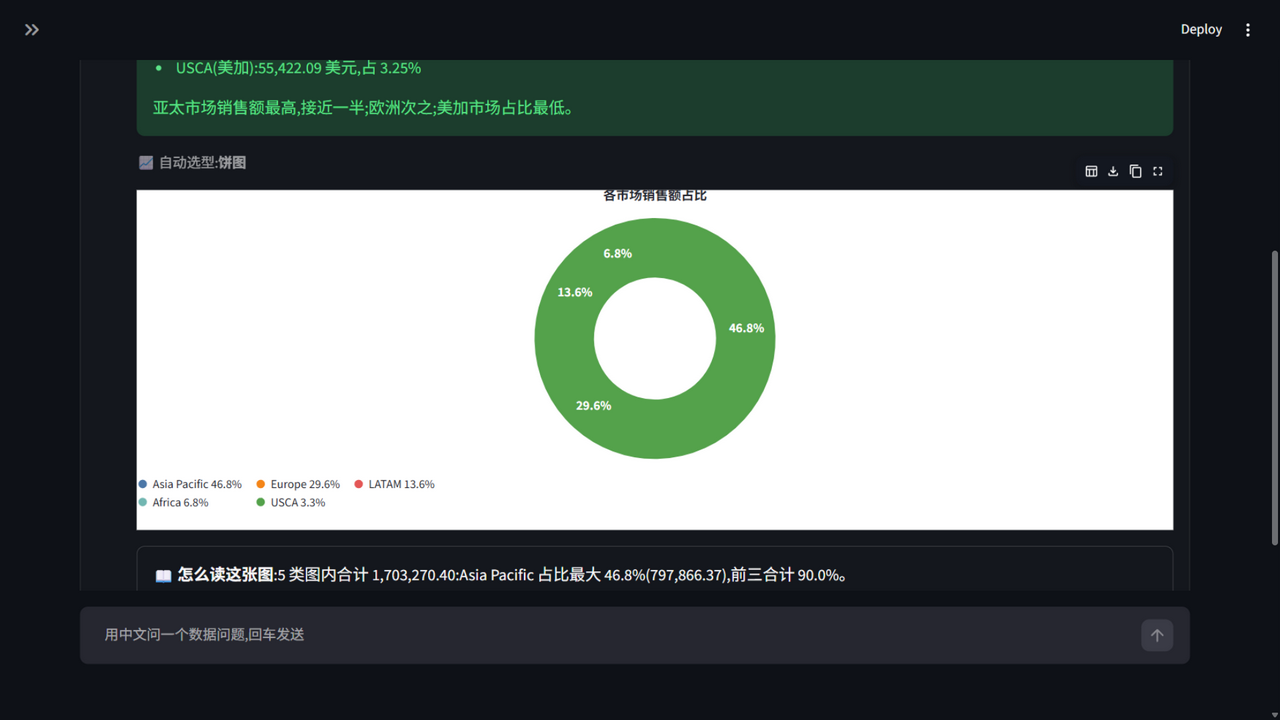
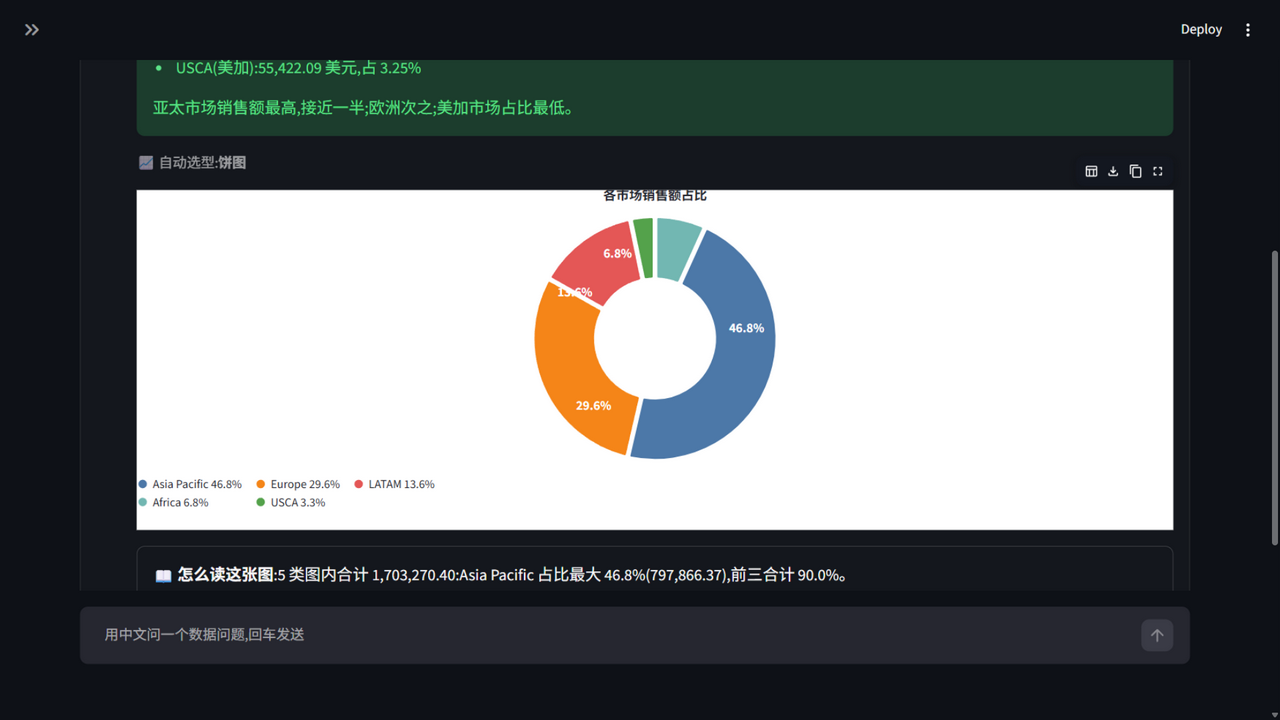
饼图一色修复:文字层给 theta 显式设 [0,360] 值域后被 Vega-Lite 与 arc 层共享,堆叠值(0~合计)被套进 360 度,每个扇区拉成整圈叠成一色——加 resolve.scale.theta=independent 两层各用各的比例尺;浏览器实测五色扇区恢复、角度与占比相称、百分比文字居中、图例完整;踩坑记入 pitfalls;测试 81 例

Changed region(s): [[0.4062, 0.3056, 0.625, 0.6417]]

diff --git a/app/charts.py b/app/charts.py
@@ -318,8 +318,11 @@ def _spec(question: str, p: dict) -> dict[str, Any]:
         s["encoding"] = {k: v for k, v in s["encoding"].items() if v is not None}
     elif t == "pie":
         # 甜甜圈 + 扇区百分比标签:占比一眼可读,小切片(<6%)不标注防挤压;
-        # 图例沉底,标题/图例由 config.padding 留出边缘呼吸空间
+        # 图例沉底,标题/图例由 config.padding 留出边缘呼吸空间。
+        # theta 比例尺必须各层独立:文字层用 [0,360] 度定位中点角,arc 层用堆叠值,
+        # 共享时堆叠值(0~合计)会被套进 360 度,扇区全被拉成整圈、叠成一色
         s["height"] = 340
+        s["resolve"] = {"scale": {"theta": "independent"}}
         s["layer"] = [
             {
                 "mark": {"type": "arc", "innerRadius": 60, "cornerRadius": 2,

diff --git a/tests/test_charts.py b/tests/test_charts.py
@@ -43,6 +43,8 @@ def test_pie_when_question_asks_share():
     assert arc["mark"]["type"] == "arc" and arc["mark"]["innerRadius"] == 60
     assert arc["encoding"]["theta"]["field"] == "total"
     assert arc["encoding"]["color"]["field"] == "_legend"  # 图例带"名称 占比",不用颜色对暗号
+    # theta 比例尺两层独立:共享时 arc 的堆叠值被套进文字层的 [0,360] 度,扇区全变整圈
+    assert spec["resolve"] == {"scale": {"theta": "independent"}}
     assert spec["layer"][1]["mark"]["type"] == "text"
     labels = {r["market"]: r["_label"] for r in spec["data"]["values"]}
     assert labels["EU"] == "60.1%"  # 1815/3020,标签在本地算好

diff --git a/notes/pitfalls.md b/notes/pitfalls.md
@@ -64,3 +64,8 @@
 
 - **Streamlit 的 vega 包装层对顶层数字 padding 抛 TypeError** → 图表 spec 加 `"padding": 16` 后整卡渲染崩(vega-lite 5.22 独立编译同一 spec 完全合法);四变体二分(去 padding/去文字层/去描边/去 tooltip)一轮锁定 padding,tooltip 二轮排除 → 改放 `config.padding`(等效且不经过包装层),并加回归测试断言 spec 无顶层 padding;结论:**三方(vega-lite 官方/本地编译/Streamlit 包装)对 spec 的接受面不一致,以目标渲染器实测为准**。
 - **服务重启后旧标签是僵尸 DOM** → 重启 Streamlit 后在未刷新的标签里点按钮、看报错,把"已修复"误判成"还在坏";排查半天最后发现服务端日志无异常、真实 spec 在干净页面渲染正常 → 验证前必须 reload,以服务端日志和新鲜 DOM 为准,别信断线前的页面。
+
+## 2026-09-13 · 饼图标签两连坑(Vega-Lite layer 共享比例尺)
+
+- **theta 通道绑原始数值,文字落在扇区终点角而非中点** → 文字层的 theta 直接用销售额字段,角度=该值占合计的比例(=扇区终点),Europe 的标签压进 Asia Pacific 扇区 → 修法:Python 预算扇区中点角 `_mid`(度),文字层 theta 显式 scale [0,360] 按角度定位。
+- **layer 之间默认共享比例尺,显式 scale 会反向污染 arc 层** → 上一修法给文字层 theta 设了 [0,360] 值域,Vega-Lite 把它和 arc 层的堆叠 theta 比例尺合并,arc 的堆叠值(0~170 万)被套进 360 度,每个扇区拉成整圈、五个整圈叠成一色 → 修法:`resolve.scale.theta=independent` 让两层各用各的;教训:**在 layer 里给任何通道显式设 scale 前,先想清楚这个通道是不是被别的层共享**。
